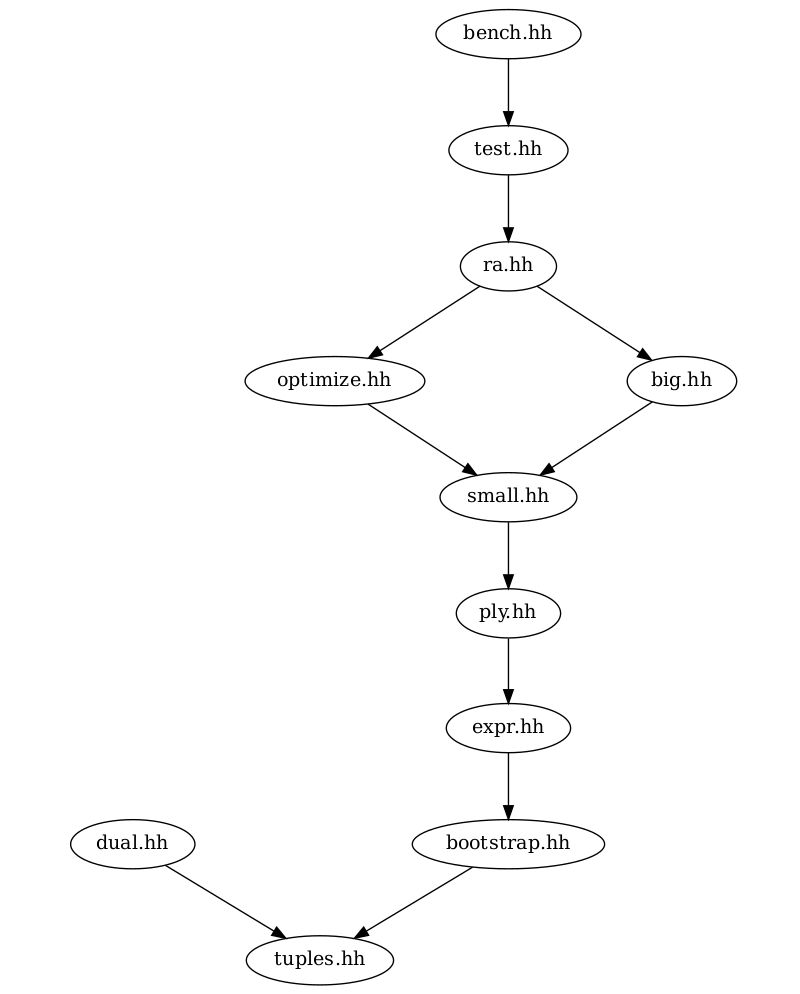
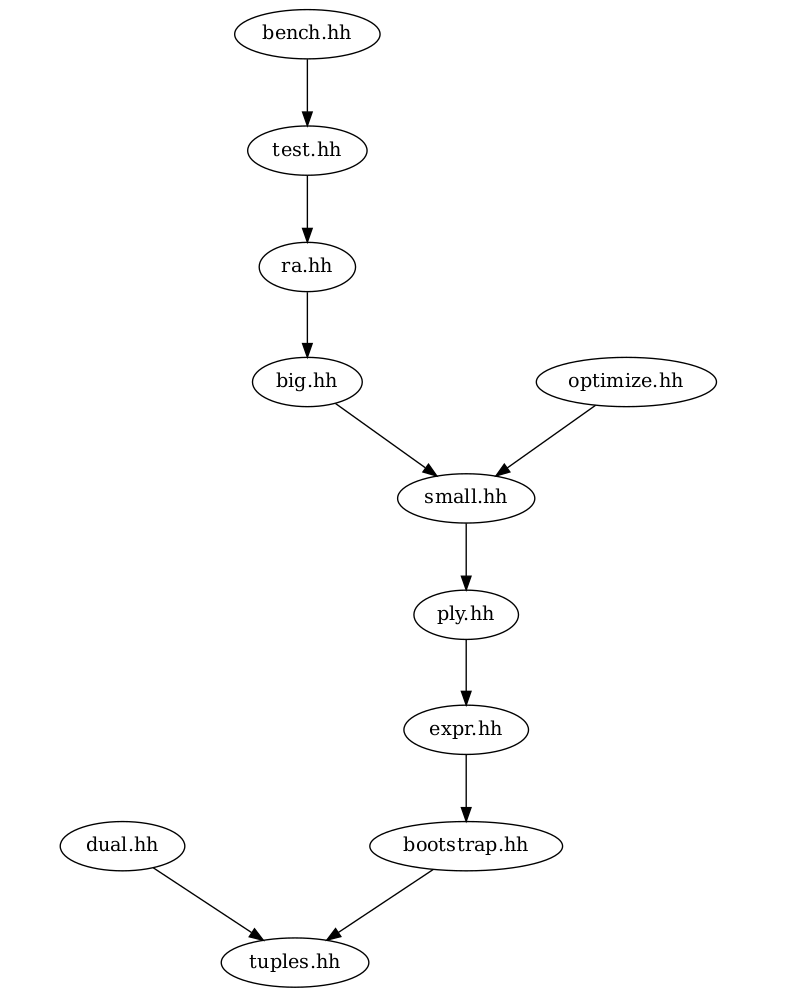
Fix forwarding issue in Match
Not sure about this one; fixes off bounds access bug83.cc in gcc
13/RA_DO_CHECK=0/-fno-sanitize=all, broken since
78fa450366c548650b67a059a38db0dcc3a8d9e9. gcc 11 has no problem with it.

Also merge optimize.hh in ra.hh.

diff --git a/docs/index.html b/docs/index.html
@@ -3,7 +3,7 @@
 <!-- Created by GNU Texinfo 6.8, https://www.gnu.org/software/texinfo/ -->
 <head>
 <meta http-equiv="Content-Type" content="text/html; charset=utf-8">
-<!-- ra:: (version 26, updated 2023 November 27)
+<!-- ra:: (version 27, updated 2023 November 28)
 
 (c) Daniel Llorens 2005-2023
 
@@ -116,7 +116,7 @@ Next: <a href="#Overview" accesskey="n" rel="next">Overview</a> &nbsp; [<a href=
 </div>
 <span id="ra_003a_003a"></span><h1 class="top"><code>ra::</code></h1>
 
-<p><code>ra::</code> (version 26, updated 2023 November 27)
+<p><code>ra::</code> (version 27, updated 2023 November 28)
 </p>
 <p>(c) Daniel Llorens 2005&ndash;2023
 </p>
@@ -1749,13 +1749,13 @@ Next: <a href="#Type-hierarchy" accesskey="n" rel="next">Type hierarchy</a>, Up:
 </div>
 <span id="Headers-1"></span><h3 class="section">5.1 Headers</h3>
 
-<p>The header structure of <code>ra::</code> is as follows.<a id="DOCF11" href="#FOOT11"><sup>11</sup></a>
-</p>
+<p>The header structure of <code>ra::</code> is as follows.</p>
+
 <ul>
 <li> <code>tuples.hh</code> -
 Generic macros and tuple library.
 </li><li> <code>bootstrap.hh</code> -
-Basic types, concepts, type predicates, introspection.
+Basic types and concepts, introspection.
 </li><li> <code>expr.hh</code> -
 Expression template nodes, prefix matching.
 </li><li> <code>ply.hh</code> -
@@ -1764,10 +1764,8 @@ Traversal, including I/O.
 Array type with compile time dimensions.
 </li><li> <code>big.hh</code> -
 Array type with run time dimensions.
-</li><li> <code>optimize.hh</code> -
-Optimization templates.
 </li><li> <code>ra.hh</code> -
-Functions and operators. Main header.
+Functions and operators, main header.
 </li><li> <code>test.hh</code> -
 (accessory) Testing library.
 </li><li> <code>bench.hh</code> -
@@ -1776,7 +1774,6 @@ Functions and operators. Main header.
 (accessory) Dual number type and operations.
 </li></ul>
 
-<img src="headers.png" alt="headers">
 
 <hr>
 </div>
@@ -1820,7 +1817,7 @@ Next: <a href="#Loop-types" accesskey="n" rel="next">Loop types</a>, Previous: <
 
 <p>The execution of an expression template begins with the determination of its shape — the length of each of its dimensions. This is done recursively by traversing the terms of the expression. For a given dimension <code>k</code>≥0, terms that have rank less or equal than <code>k</code> are ignored, following the prefix matching principle. Likewise terms where dimension <code>k</code> has undefined length (such as <code>iota()</code> or dimensions created with <code>insert</code>) are ignored. All the other terms must match.
 </p>
-<p>Then we select a order of traversal. <code>ra::</code> supports ‘array’ orders, meaning that the dimensions are sorted in a certain way from outermost to innermost and a full dimension is traversed before one advances on the dimension outside. However, currently (v26) there is no heuristic to choose a dimension order, so traversal always happens in row-major order (which shouldn&rsquo;t be relied upon). <code>ply_ravel</code> will unroll as many innermost dimensions as it can, and in some cases traversal will be executed as a flat loop.
+<p>Then we select a order of traversal. <code>ra::</code> supports ‘array’ orders, meaning that the dimensions are sorted in a certain way from outermost to innermost and a full dimension is traversed before one advances on the dimension outside. However, currently (v27) there is no heuristic to choose a dimension order, so traversal always happens in row-major order (which shouldn&rsquo;t be relied upon). <code>ply_ravel</code> will unroll as many innermost dimensions as it can, and in some cases traversal will be executed as a flat loop.
 </p>
 <p>Finally we select a traversal method. <code>ra::</code> has two traversal methods: <code>ply_fixed</code> can be used when the rank and the traversal order are known at compile time, and <code>ply_ravel</code> can be used in the general case.
 </p>
@@ -2945,12 +2942,6 @@ Previous: <a href="#Indices" accesskey="p" rel="prev">Indices</a>, Up: <a href="
 Note that if both operands are of rank 0 and at least one of them is an <code>ra::</code> object, they is no way to preserve the behavior of <code>&amp;&amp;</code> and <code>||</code> with built in types and avoid evaluating both, since the overloaded operators <a href="http://en.cppreference.com/w/cpp/language/operators">are normal functions</a>.</p>
 <h5><a id="FOOT10" href="#DOCF10">(10)</a></h5>
 <p>Simplified; see the references in <a href="http://www.open-std.org/jtc1/sc22/wg21/docs/papers/2018/p1170r0.html">http://www.open-std.org/jtc1/sc22/wg21/docs/papers/2018/p1170r0.html</a>.</p>
-<h5><a id="FOOT11" href="#DOCF11">(11)</a></h5>
-<p>Diagram generated using Graphviz and <a href="https://www.flourish.org/cinclude2dot">https://www.flourish.org/cinclude2dot</a>.
-</p>
-<pre class="verbatim">cd ra &amp;&amp; cinclude2dot.pl --include . &gt; headers.dot
-dot -Tpng headers.dot -Gdpi=100 &gt; headers.png
-</pre>
 </div>
 
 

diff --git a/test/ra-9.cc b/test/ra-9.cc
@@ -83,10 +83,10 @@ int main()
     {
         auto ref = std::array<int, 4> {12, 77, 44, 1};
         tr.test_eq(2, expr([](int i) { return i; }, ra::start(std::vector {1, 2, 3})).at(ra::Small<int, 1>{1}));
-        tr.test_eq(ra::start(ref), expr([](int i) { return i; }, ra::start(std::array {12, 77, 44, 1})));
-// [ra1] no need to forward in Expr()/Match()/Pick(), that is done in expr()/pick(). Used to need it bc CTE in older gcc.
-        tr.test_eq(ra::start(ref), expr([](int i) { return i; }, ra::start(ra::Big<int, 1> {12, 77, 44, 1})));
-        tr.test_eq(ra::start(ref), expr([](int i) { return i; }, ra::start(std::vector {12, 77, 44, 1})));
+        tr.test_eq(ref, expr([](int i) { return i; }, ra::start(std::array {12, 77, 44, 1})));
+// [ra1] used to need forward in Match/Expr/Pick bc CTE in older gcc. But see bug83.cc.
+        tr.test_eq(ref, expr([](int i) { return i; }, ra::start(ra::Big<int, 1> {12, 77, 44, 1})));
+        tr.test_eq(ref, expr([](int i) { return i; }, ra::start(std::vector {12, 77, 44, 1})));
         {
             int c = 0;
             ply_ravel(expr([&c](int i) { c += i; }, ra::start(ra::Unique<int, 1> {12, 77, 44, 1})));
